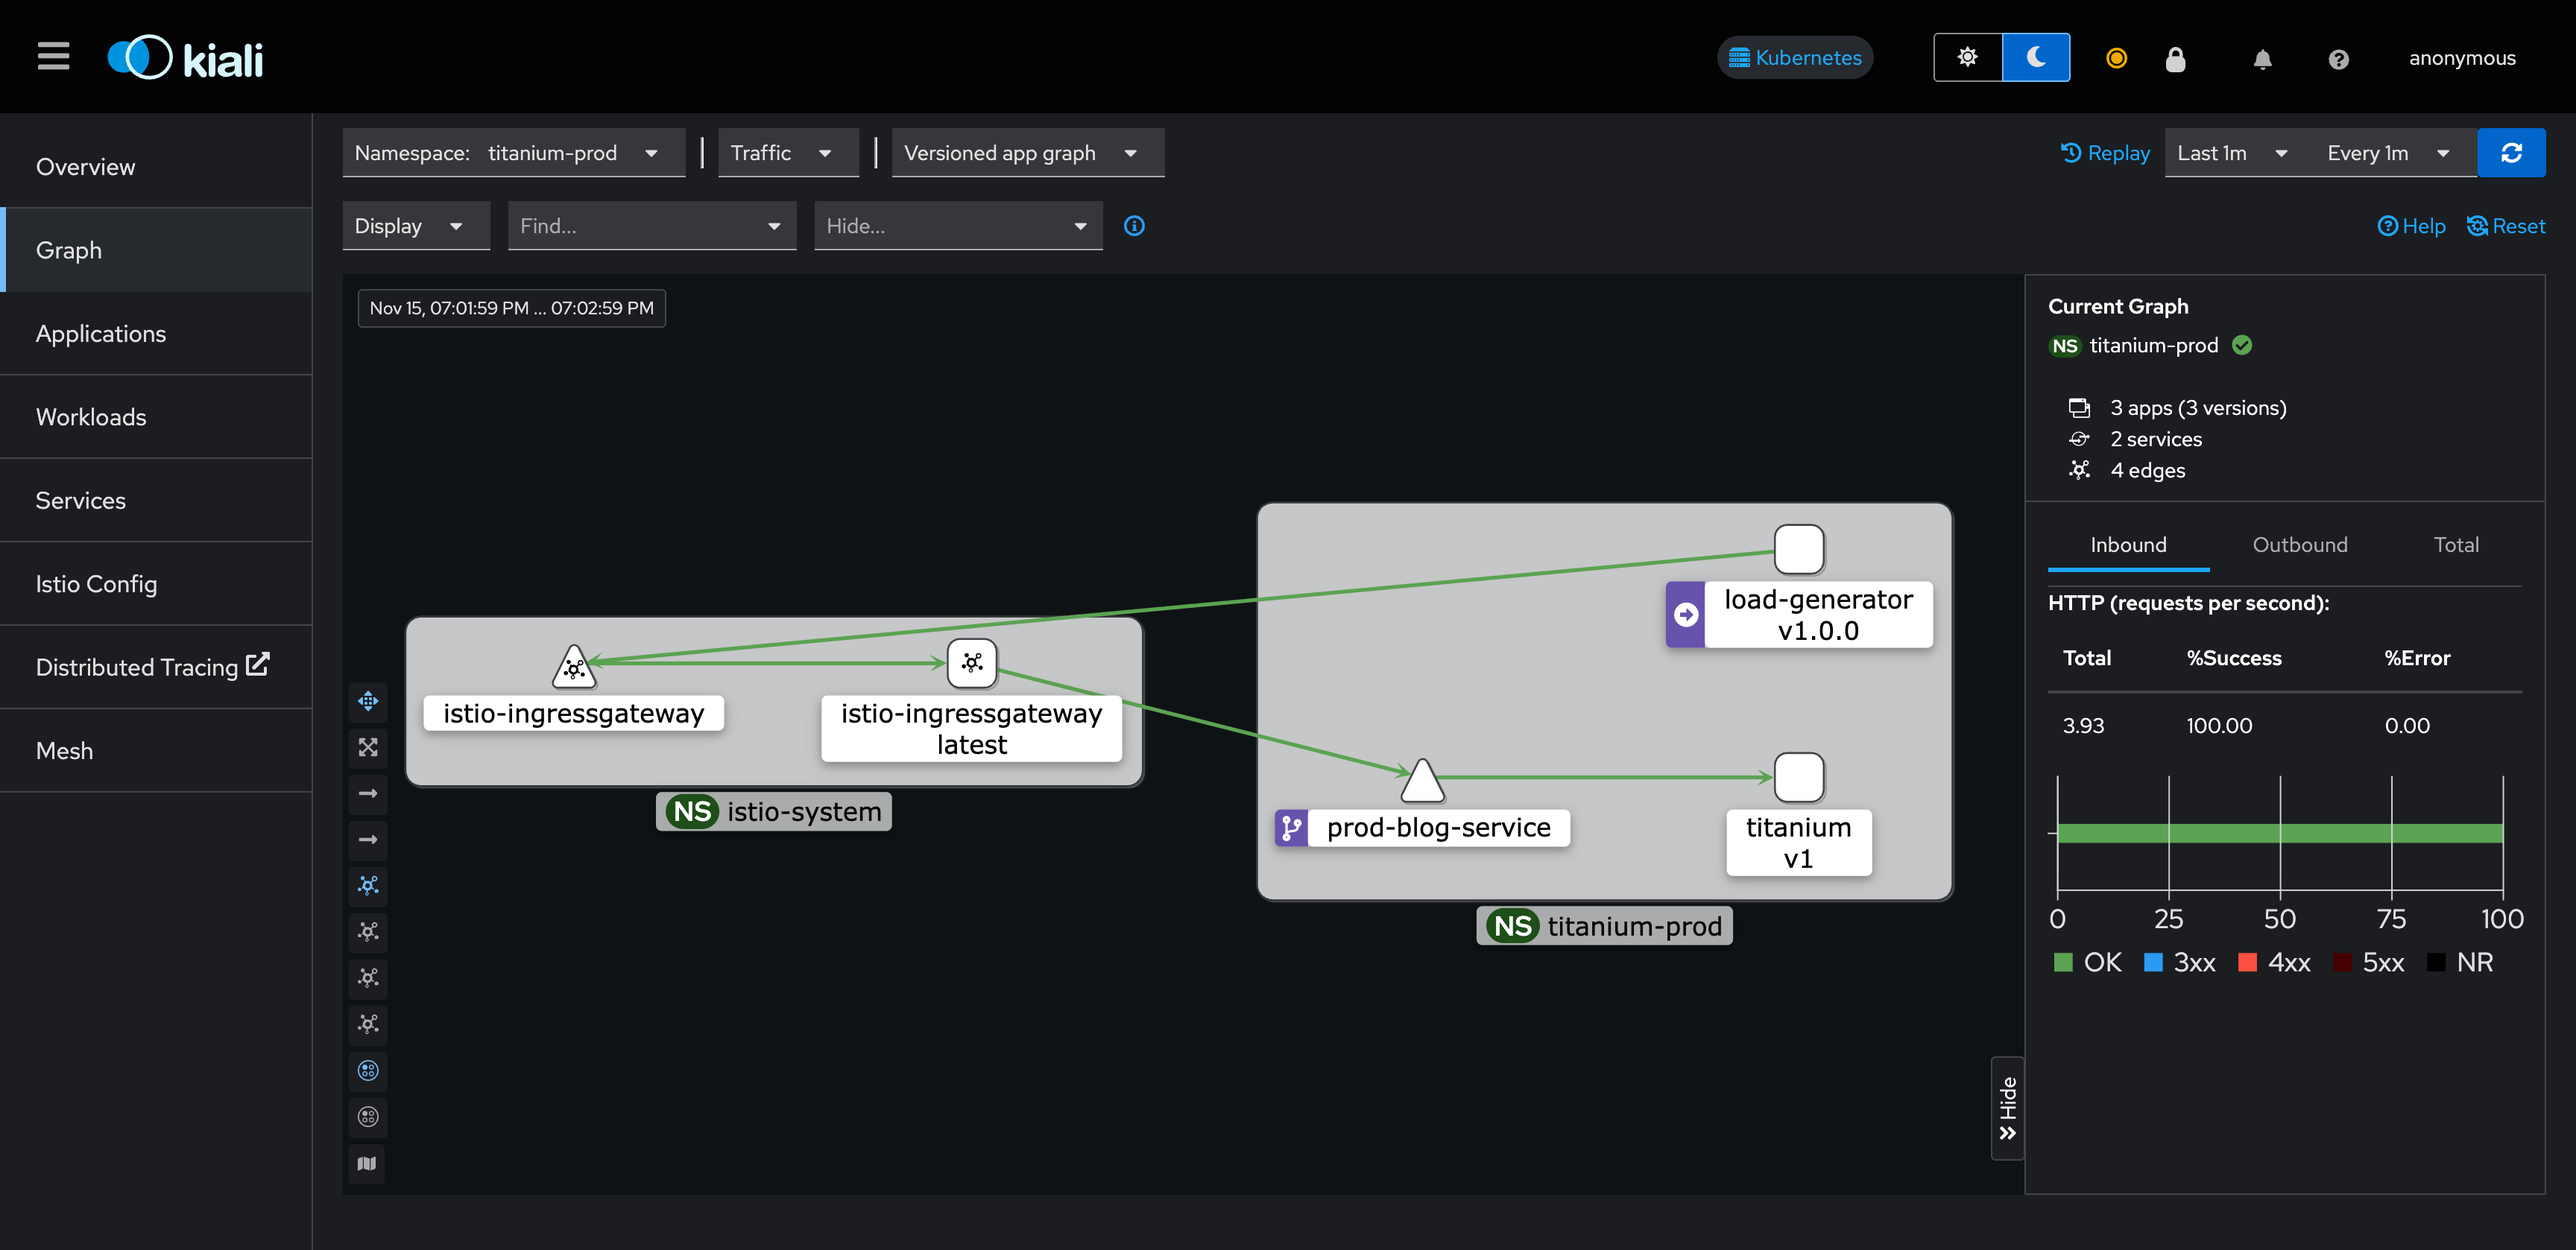
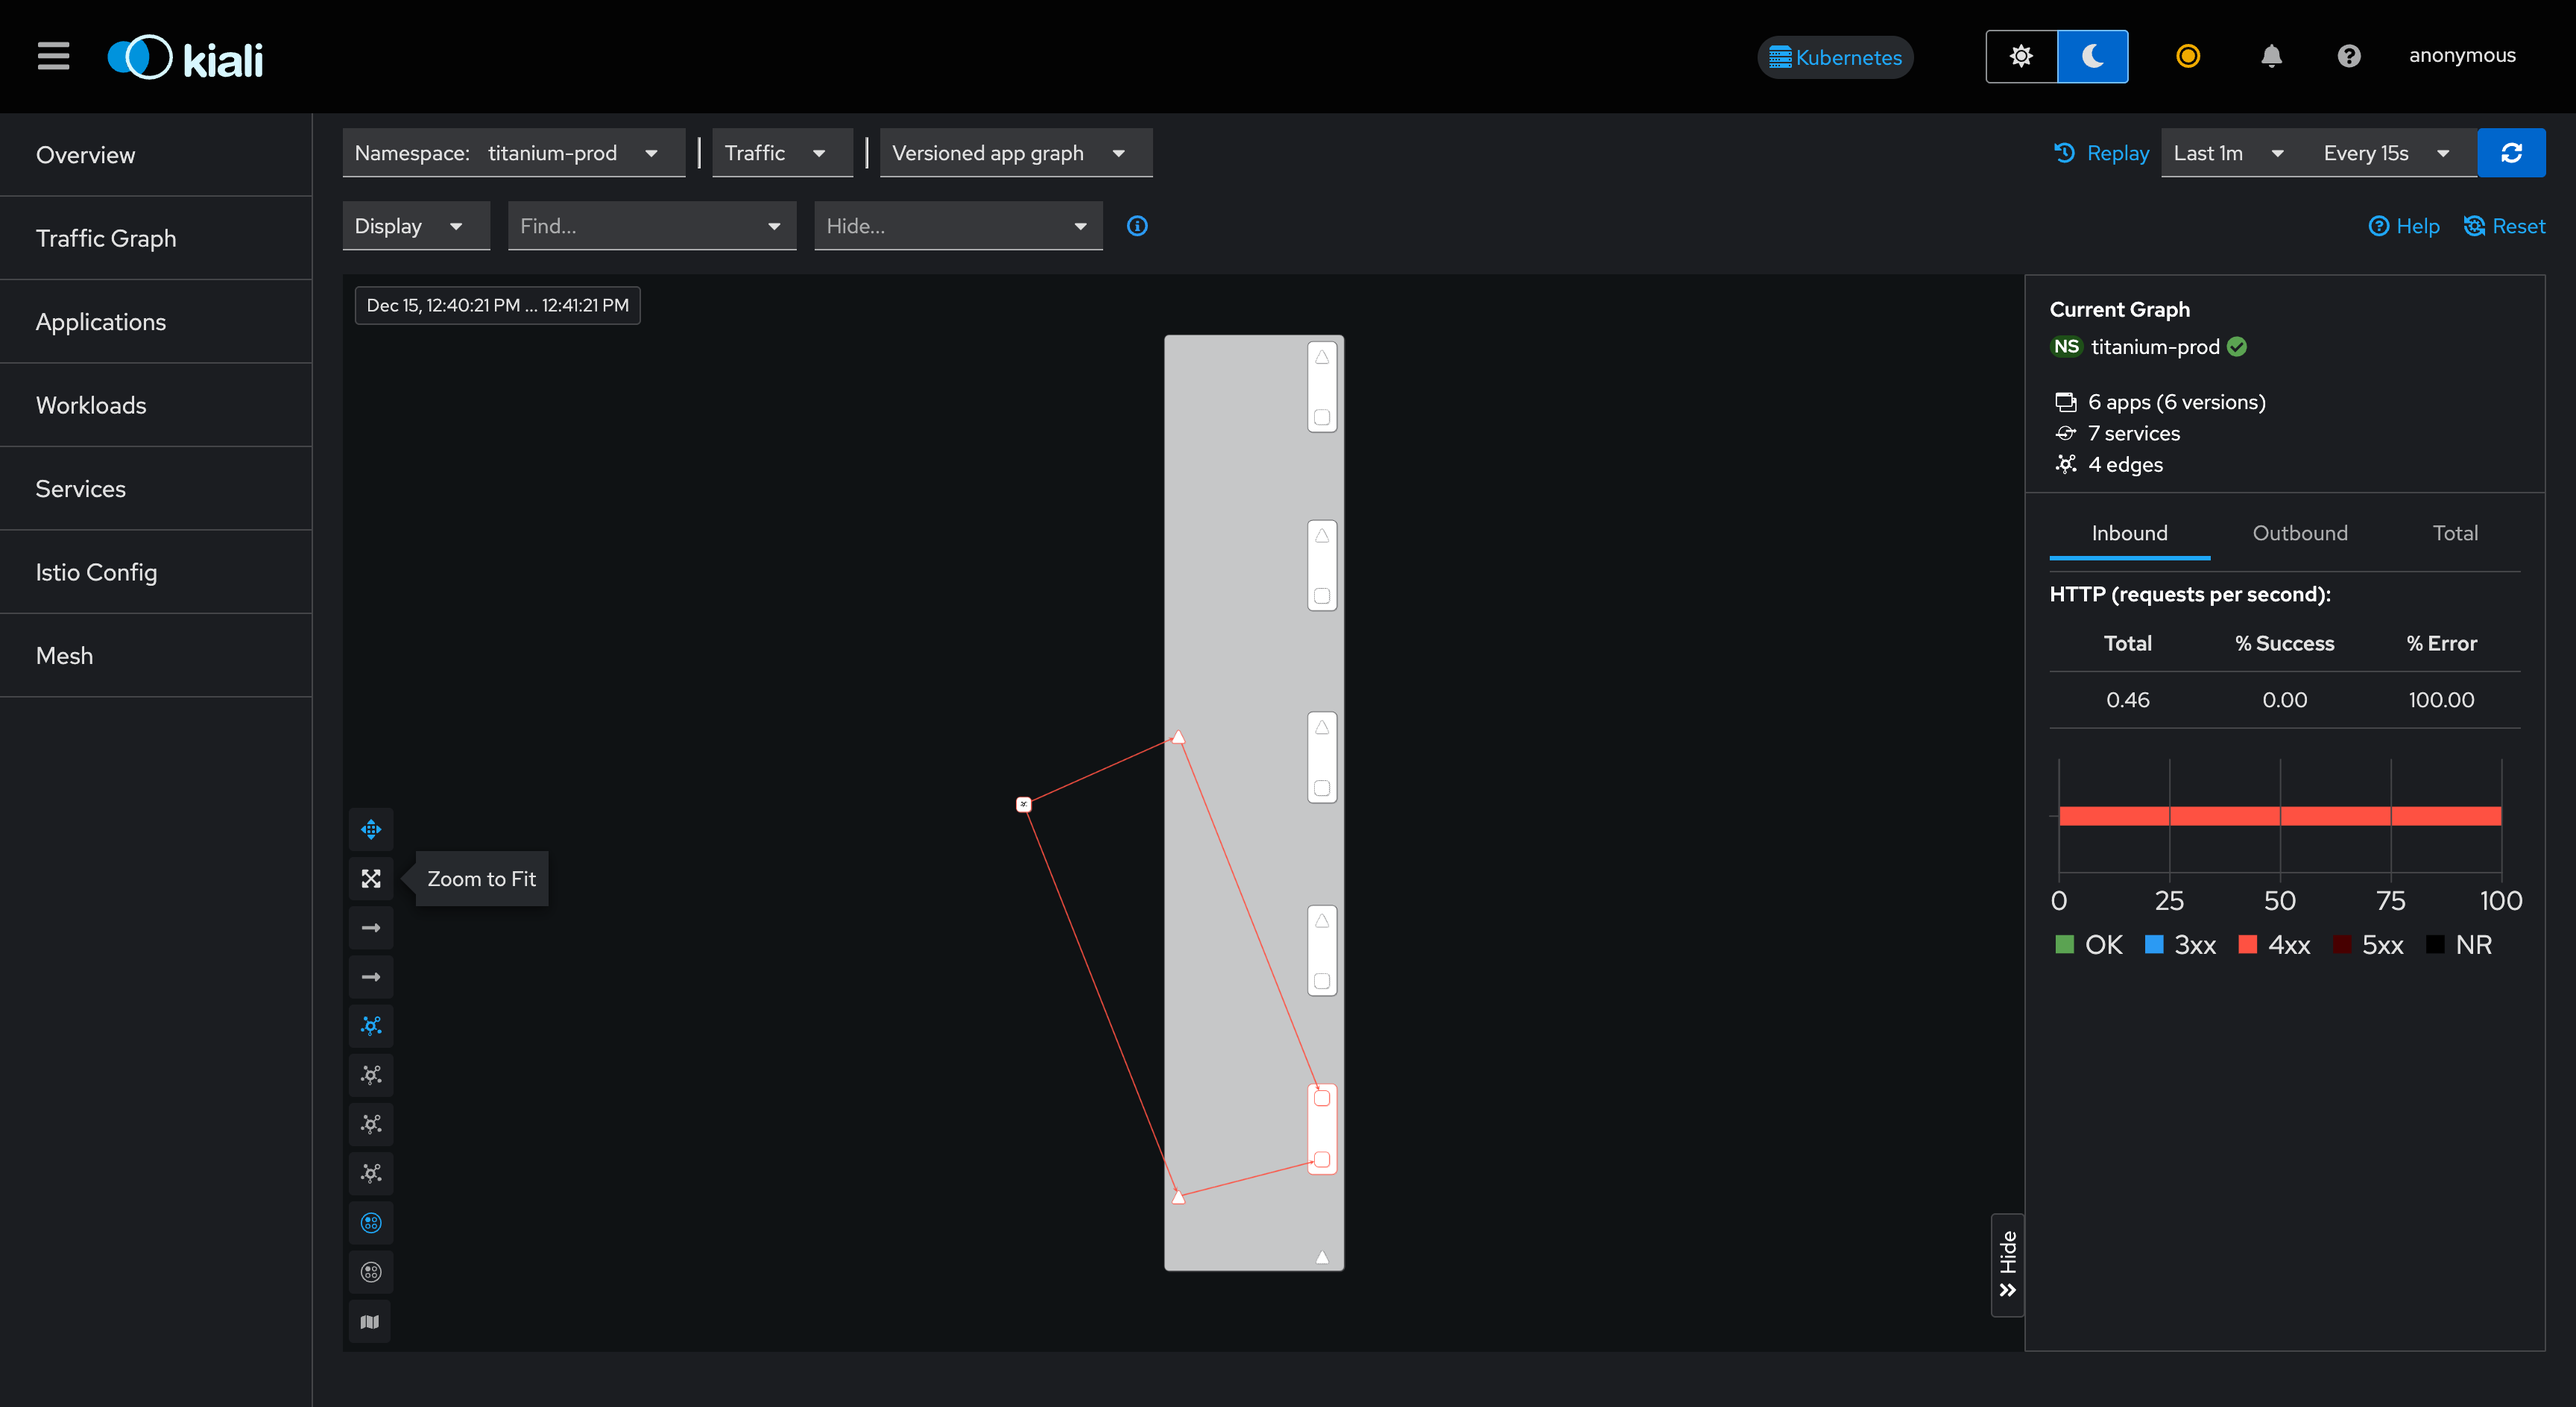
docs: README 스크린샷 섹션 통합 및 이미지 품질 개선
- README 문서 버전 3.4 -> 3.5 업데이트
- "시스템 현황 및 대시보드" -> "시스템 대시보드"로 섹션명 변경
- 하단 중복 "시스템 스크린샷" 섹션 제거
- 카테고리 동적 색상 관리 이미지를 상단 통합
- Prometheus Targets 이미지 추가
- Grafana, Prometheus, Kiali 스크린샷 품질 개선 (실제 트래픽 데이터 표시)
- 미사용 스크린샷 파일 삭제

diff --git a/README.md b/README.md
@@ -1,7 +1,7 @@
 # Cloud-Native 마이크로서비스 플랫폼 v2.0
 
-**문서 버전**: 3.4 <br>
-**최종 수정일**: 2025년 12월 14일
+**문서 버전**: 3.5 <br>
+**최종 수정일**: 2025년 12월 15일
 
 로컬 환경(Minikube)에서 운영되던 마이크로서비스 블로그 플랫폼을 클라우드 네이티브 아키텍처로 재구축한 프로젝트입니다. Terraform을 이용한 인프라 자동화, GitOps 기반의 CI/CD 파이프라인, 그리고 Istio 서비스 메시를 통한 관측성과 보안 강화를 목표로 합니다.
 
@@ -18,6 +18,7 @@
 | **3.2** | 2025-11-22 | k6 부하 테스트 통합 및 성능 테스트 문서화 (스크립트 개선, threshold 최적화) |
 | **3.3** | 2025-12-08 | Phase 1+2 보안/성능 개선 적용 |
 | **3.4** | 2025-12-14 | 카테고리 동적 관리 기능, 최신 성능 지표 반영, 문서 업데이트 |
+| **3.5** | 2025-12-15 | README 스크린샷 섹션 통합, 대시보드 이미지 품질 개선 |
 
 ---
 
@@ -67,41 +68,59 @@
 
 ---
 
-## 시스템 현황 및 대시보드
+## 시스템 대시보드
 
-### 블로그 서비스
+### 블로그 애플리케이션
+
+**메인 화면**
 
 ![Blog Service](https://raw.githubusercontent.com/DvwN-Lee/Monitoring-v2/main/docs/04-operations/screenshots/blog-service.png)
 
 FastAPI 기반의 블로그 애플리케이션으로, 게시글 CRUD 기능과 웹 UI를 제공합니다.
 
-### Grafana Golden Signals 대시보드
+**카테고리 동적 색상 관리**
+
+![Blog Service Category](https://raw.githubusercontent.com/DvwN-Lee/Monitoring-v2/main/docs/04-operations/screenshots/blog-service-category.png)
+
+각 카테고리는 랜덤 색상이 자동으로 할당되며, CSS 변수를 통해 일관된 스타일이 적용됩니다.
+
+### 모니터링 스택
+
+**Grafana Golden Signals**
 
 ![Grafana Golden Signals](https://raw.githubusercontent.com/DvwN-Lee/Monitoring-v2/main/docs/04-operations/screenshots/grafana-golden-signals.png)
 
-**주요 지표**:
+Istio Service Mesh를 통해 수집된 Golden Signals를 확인할 수 있습니다.
 - **Latency**: P95/P99 응답 시간 추적
 - **Traffic**: 초당 요청 수 (req/s) 모니터링
 - **Errors**: 에러율 추적
 - **Saturation**: CPU 리소스 사용률 모니터링
 
-### Prometheus 메트릭 수집
+**Prometheus Targets**
 
-![Prometheus](https://raw.githubusercontent.com/DvwN-Lee/Monitoring-v2/main/docs/04-operations/screenshots/prometheus-metrics.png)
+![Prometheus Targets](https://raw.githubusercontent.com/DvwN-Lee/Monitoring-v2/main/docs/04-operations/screenshots/prometheus-targets.png)
 
-Prometheus로 모든 서비스의 메트릭을 수집하고 쿼리할 수 있습니다.
+모든 서비스의 메트릭 수집 상태를 확인할 수 있습니다. user-service, blog-service, redis-service 등 모든 타겟이 UP 상태로 정상 동작 중입니다.
 
-### Loki 중앙 로깅
+**Prometheus 메트릭 쿼리**
+
+![Prometheus Metrics](https://raw.githubusercontent.com/DvwN-Lee/Monitoring-v2/main/docs/04-operations/screenshots/prometheus-metrics.png)
+
+PromQL을 통해 Istio 메트릭을 쿼리하고 시각화할 수 있습니다.
+
+**Loki 중앙 로깅**
 
 ![Loki Logs](https://raw.githubusercontent.com/DvwN-Lee/Monitoring-v2/main/docs/04-operations/screenshots/loki-logs.png)
 
 Loki를 통해 모든 서비스의 로그를 한곳에서 조회하고 검색할 수 있습니다.
 
-### Kiali Service Mesh 시각화
+### 서비스 메시
+
+**Kiali Traffic Graph**
 
 ![Kiali Service Graph](https://raw.githubusercontent.com/DvwN-Lee/Monitoring-v2/main/docs/04-operations/screenshots/kiali-service-graph.png)
 
-Kiali를 통해 Istio 서비스 메시의 트래픽 흐름과 서비스 간 의존성을 시각화하고, mTLS 상태를 확인할 수 있습니다.
+titanium-prod namespace의 서비스 메시 구조를 시각화한 화면입니다. 6개 애플리케이션과 7개 서비스 간의 통신 흐름 및 mTLS 암호화 상태를 확인할 수 있습니다.
 
 ---
 
@@ -346,32 +365,6 @@ kubectl config view --raw -o jsonpath='{.clusters[0].cluster.certificate-authori
 - **Kiali 서비스 메시**: http://10.0.11.168:30164
 - **Prometheus**: http://10.0.11.168:30090
 - **애플리케이션**: http://10.0.11.168:31304
-
-### 시스템 스크린샷
-
-**Blog Service - 카테고리 동적 색상 관리**
-
-![Blog Service UI](./docs/04-operations/screenshots/blog-service-category.png)
-
-동적으로 할당된 카테고리 색상을 확인할 수 있습니다. 각 카테고리는 랜덤 색상이 자동으로 할당되며, CSS 변수를 통해 일관된 스타일이 적용됩니다.
-
-**Prometheus - Monitoring Targets**
-
-![Prometheus Targets](./docs/04-operations/screenshots/prometheus-targets.png)
-
-모든 서비스의 메트릭 수집 상태를 확인할 수 있습니다. user-service, blog-service, redis-service 등 모든 타겟이 UP 상태로 정상 동작 중입니다.
-
-**Grafana - Golden Signals Dashboard**
-
-![Grafana Golden Signals](./docs/04-operations/screenshots/grafana-golden-signals.png)
-
-Istio Service Mesh를 통해 수집된 Golden Signals(Latency, Traffic, Errors, Saturation) 메트릭을 확인할 수 있습니다. P95 Latency 91.5ms, Error Rate 0%를 달성했습니다.
-
-**Kiali - Service Mesh Visualization**
-
-![Kiali Service Mesh](./docs/04-operations/screenshots/kiali-service-mesh.png)
-
-titanium-prod namespace의 서비스 메시 구조를 시각화한 화면입니다. 6개 애플리케이션과 7개 서비스 간의 통신 흐름 및 mTLS 암호화 상태를 확인할 수 있습니다.
 
 ---
 
